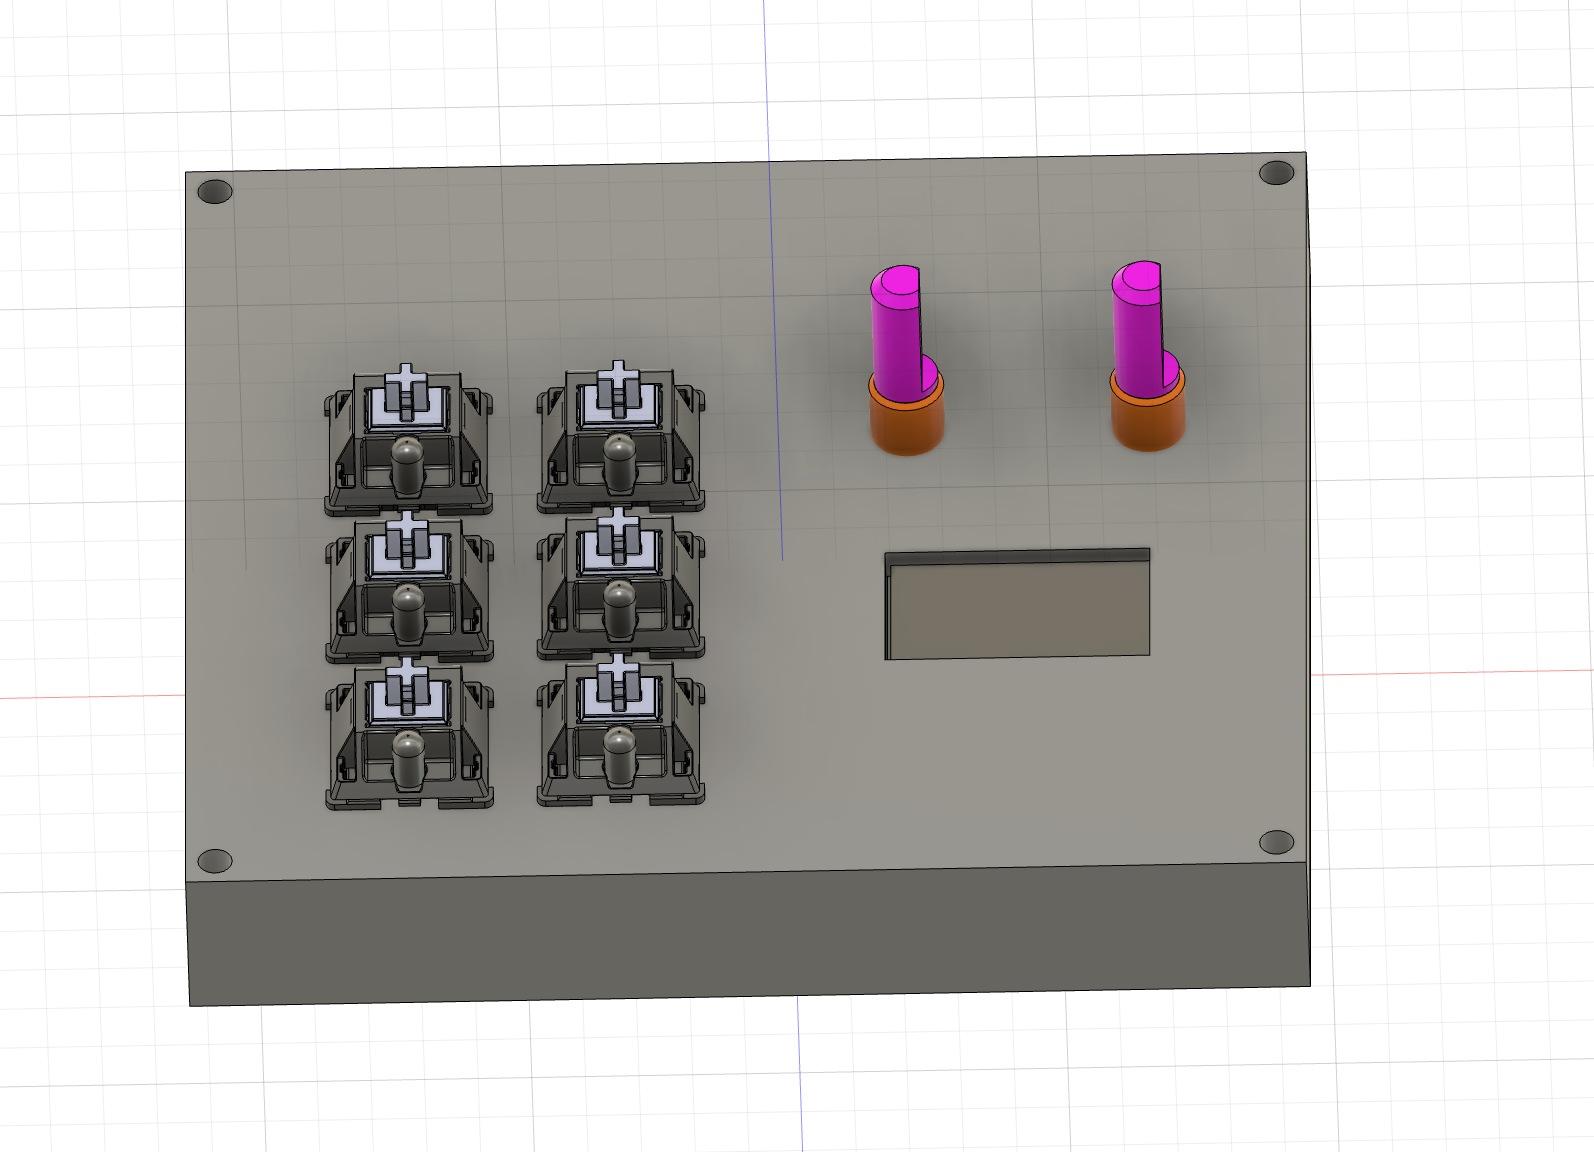
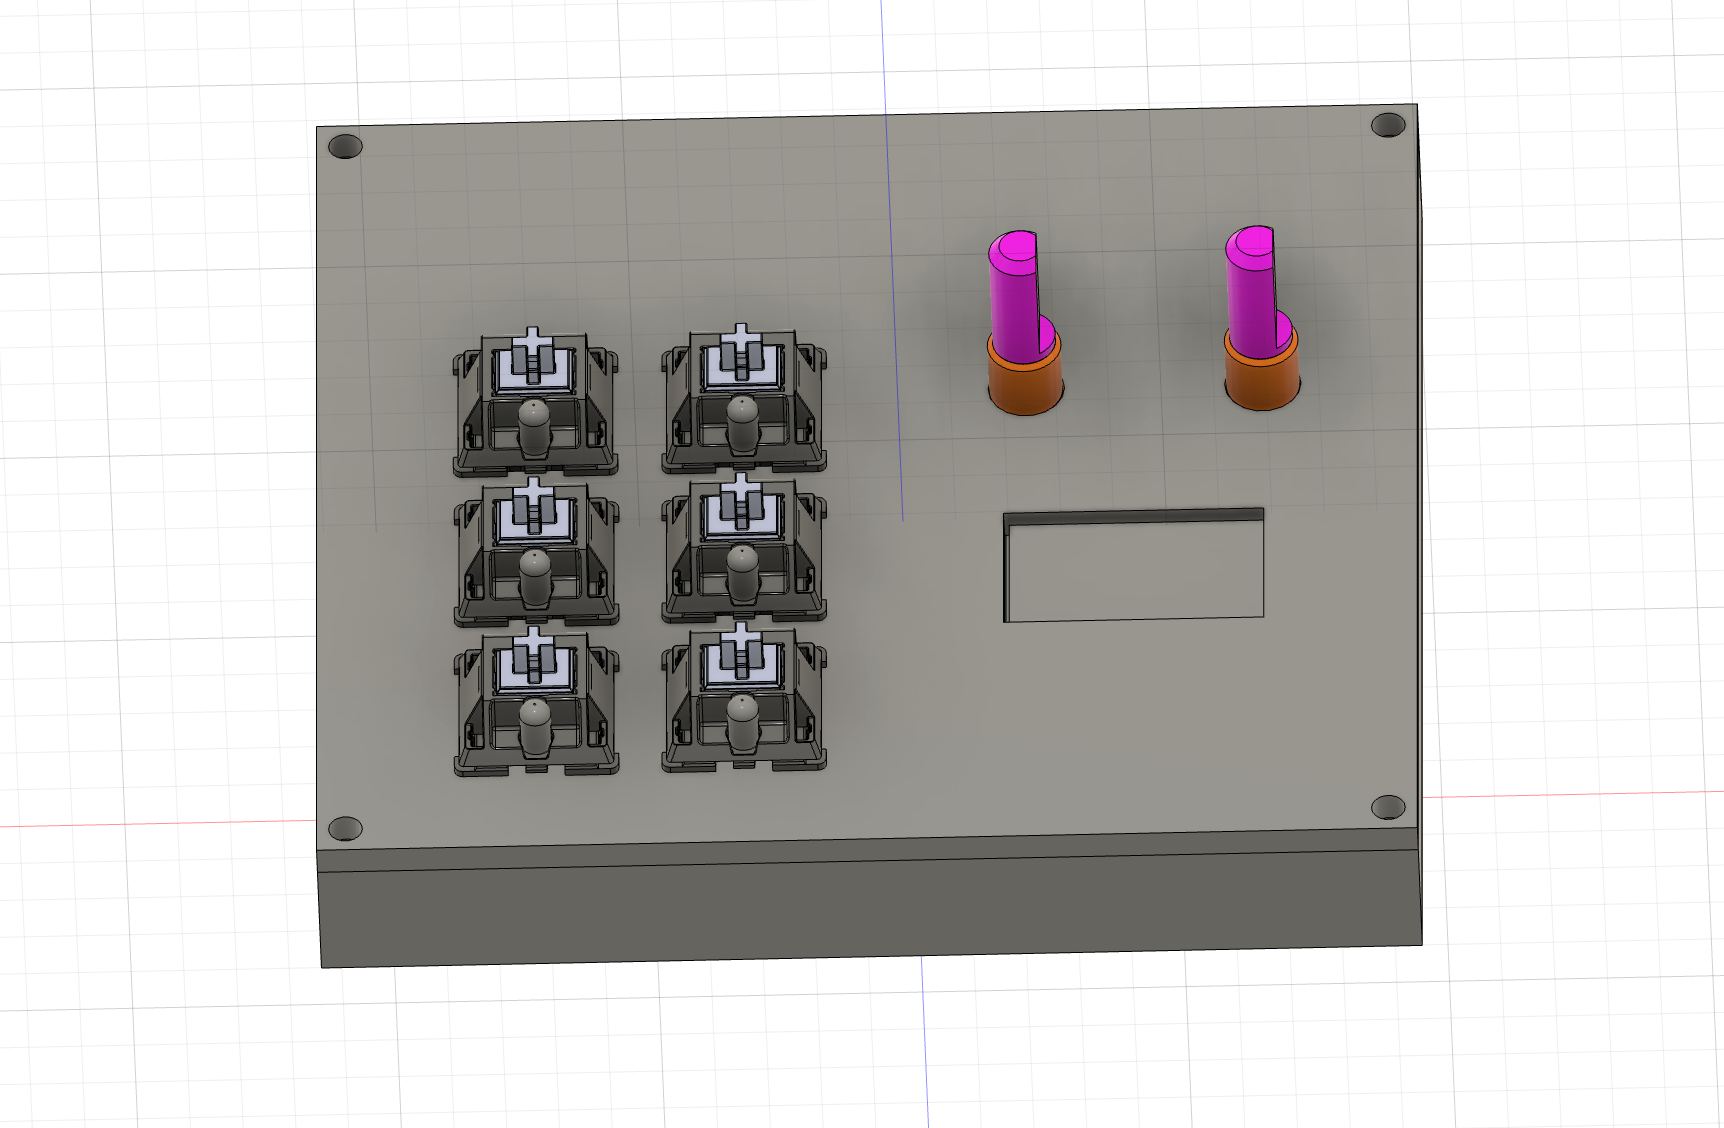
Updated readme

diff --git a/README.md b/README.md
@@ -30,6 +30,7 @@ Notes:
 
 ## Case and CAD
 <img src="assets/case.png" alt="Case CAD" width="600"/>
+<img src="assets/case_empty.png" alt="Case Empty CAD" width="600"/>
 
 How it fits together:
 - Top plate holds switches and keycaps.
@@ -66,12 +67,11 @@ Electronics:
 - 2x EC11 rotary encoders
 - 1x 0.91 inch 128x32 I2C OLED display (SSD1306, pin order: GND-VCC-SCL-SDA)
 - 1x 1x4 2.54mm pin header (for the OLED)
+- 1x PCB board
 
 Hardware and Case:
-- 6x keycaps (DSA or any MX-compatible)
+- 6x Blank DSA keycaps (White)
 - 3D-printed case (top and bottom, or top/middle/bottom depending on your design)
-- Optional, if your case uses M3 hardware:
-  - 4x M3x16mm screws
-  - 4x M3 heatset inserts (5x4mm)
-  - Optional extra screws/inserts depending on your CAD
+- 4x M3x16mm screws
+- 4x M3 heatset inserts (5x4mm)
 
